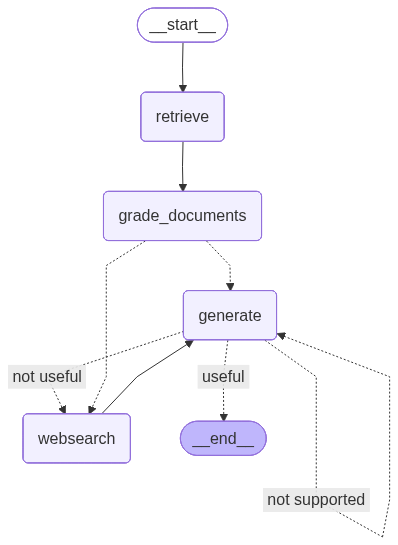
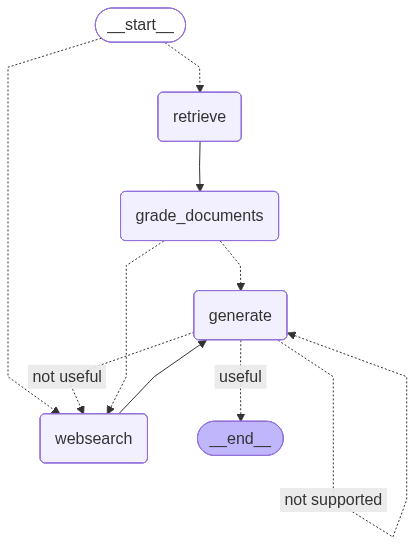
query routing to either vectorstore or web search

diff --git a/sec14-agentic-RAG/graph/graph.py b/sec14-agentic-RAG/graph/graph.py
@@ -5,6 +5,7 @@ from graph.chains.hallucination_grader import hallucination_grader
 from graph.consts import RETRIEVE, GRADE_DOCUMENTS, GENERATE, WEBSEARCH
 from graph.nodes import generate, grade_documents, retrieve, web_search
 from graph.state import GraphState
+from graph.chains.router import question_router, RouteQuery
 load_dotenv()
 
 def decide_to_generate(state):
@@ -41,13 +42,34 @@ def grade_generation_grounded_in_documents_and_question(state: GraphState) -> st
         print("---DECISION: GENERATION IS NOT GROUNDED IN DOCUMENTS, RE-TRY---")
         return "not supported"
 
+def route_question(state: GraphState) -> str:
+    print("---ROUTE QUESTION---")
+    question = state["question"]
+    source: RouteQuery = question_router.invoke({"question": question})
+    if source.datasource == WEBSEARCH:
+        print("---ROUTE QUESTION TO WEB SEARCH---")
+        return WEBSEARCH
+    elif source.datasource == "vectorstore":
+        print("---ROUTE QUESTION TO RAG---")
+        return RETRIEVE
+
+
 workflow = StateGraph(GraphState)
 
 workflow.add_node(RETRIEVE, retrieve)
 workflow.add_node(GRADE_DOCUMENTS, grade_documents)
 workflow.add_node(GENERATE, generate)
 workflow.add_node(WEBSEARCH, web_search)
-workflow.set_entry_point(RETRIEVE)
+
+# workflow.set_entry_point(RETRIEVE)
+workflow.set_conditional_entry_point(
+    route_question,
+    {
+        WEBSEARCH: WEBSEARCH,
+        RETRIEVE: RETRIEVE,
+    },
+)
+
 workflow.add_edge(RETRIEVE, GRADE_DOCUMENTS)
 workflow.add_conditional_edges(
     GRADE_DOCUMENTS,

diff --git a/sec14-agentic-RAG/graph/chains/router.py b/sec14-agentic-RAG/graph/chains/router.py
@@ -1,0 +1,34 @@
+from typing import Literal
+from langchain_core.prompts import ChatPromptTemplate
+from pydantic import BaseModel, Field
+from langchain_openai import ChatOpenAI
+
+
+class RouteQuery(BaseModel):
+    """Route a user query to the most relevant datasource."""
+
+    datasource: Literal["vectorstore", "websearch"] = Field(
+        ...,
+        description="Given a user question choose to route it to web search or a vectorstore.",
+    )
+
+llm = ChatOpenAI(temperature=0)
+structured_llm_router = llm.with_structured_output(RouteQuery)
+
+system = """
+    You are an expert at routing a user question to a vectorstore or web search.
+    The vectorstore contains documents related to agents, prompt engineering, and adversarial attacks.
+    Use the vectorstore for questions on these topics. For all else, use web-search.
+"""
+
+route_prompt = ChatPromptTemplate.from_messages(
+    [
+        ("system", system),
+        ("human", "{question}")
+    ]
+)
+
+question_router = route_prompt | structured_llm_router
+
+
+

diff --git a/sec14-agentic-RAG/graph/chains/tests/test_chains.py b/sec14-agentic-RAG/graph/chains/tests/test_chains.py
@@ -6,7 +6,7 @@ from graph.chains.generation import generation_chain
 from ingestion import retriever
 from graph.chains.retrieval_grader import GradeDocuments, retrieval_grader
 from graph.chains.hallucination_grader import hallucination_grader, GradeHallucinations
-
+from graph.chains.router import question_router, RouteQuery
 
 def test_retrieval_grader_answer_yes() -> None:
     question = "agent memory"
@@ -51,5 +51,18 @@ def test_hallucination_grader_answer_no() -> None:
         {"documents": docs, "generation": "some rubbish text"}
     )
     assert not res.binary_score
+
+def test_router_to_vectorstore() -> None:
+    question = "agent memory"
+    res: RouteQuery = question_router.invoke({"question": question})
+    assert res.datasource == "vectorstore"
+
+def test_router_to_websearch() -> None:
+    question = "how to make pizza"
+    res: RouteQuery = question_router.invoke({"question": question})
+    assert res.datasource == "websearch"
+
+
+
 
 
